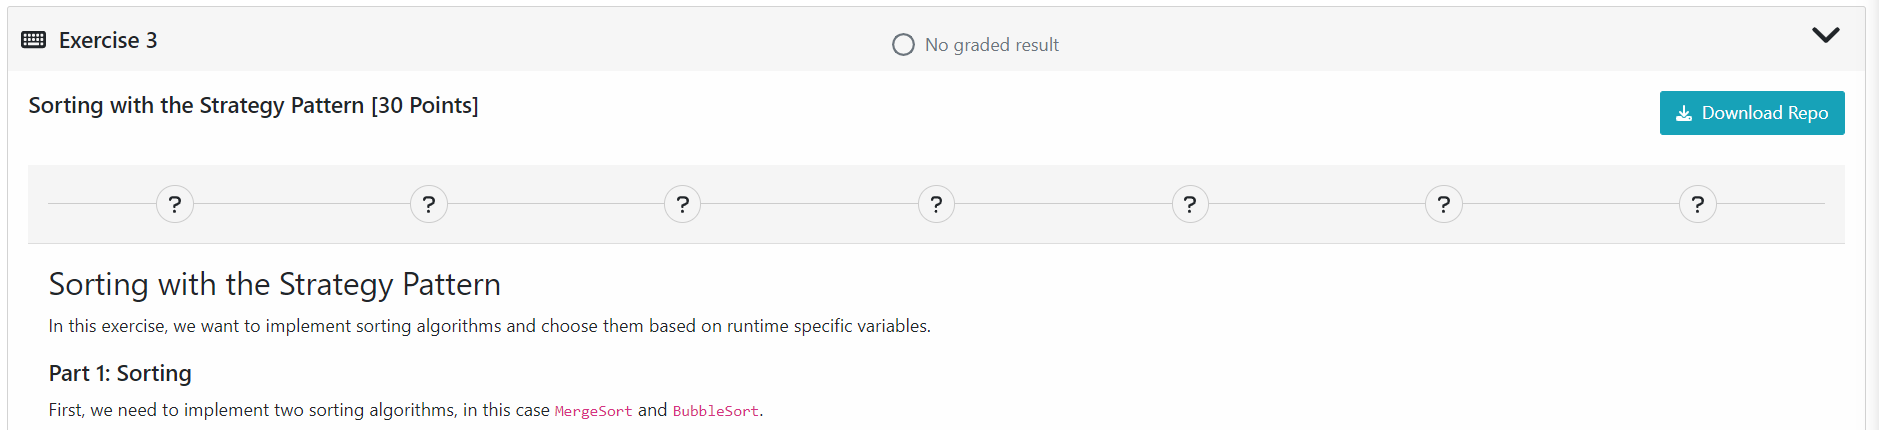
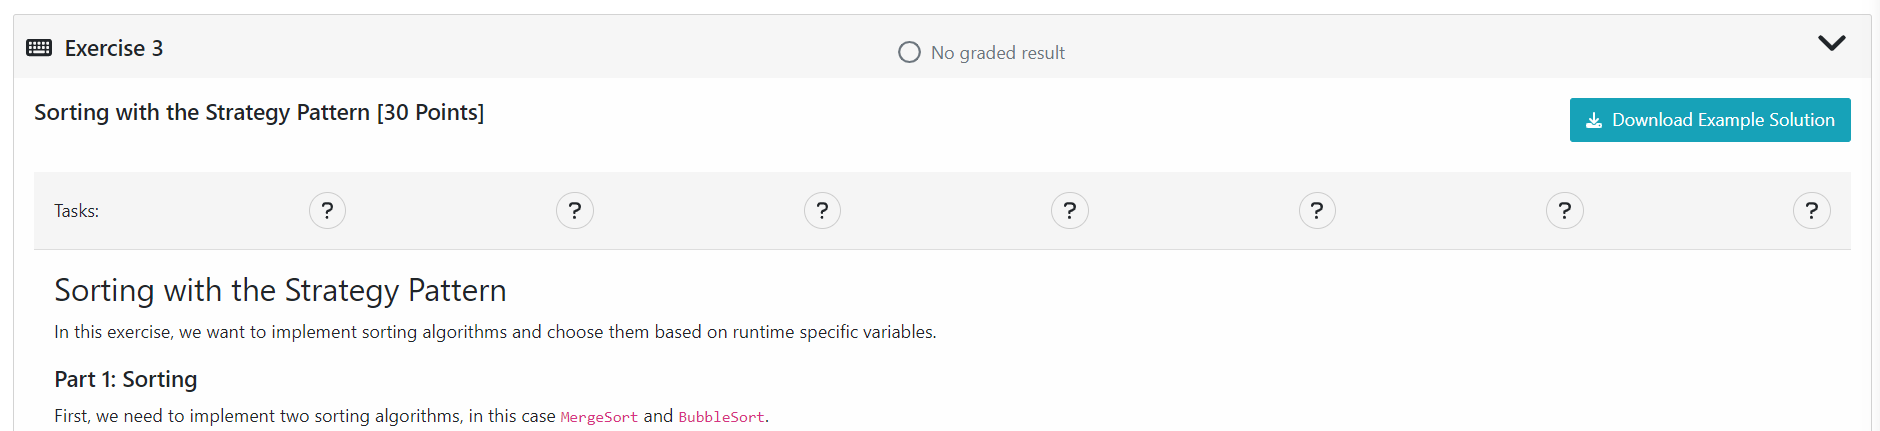
Exam mode: Change label of the example solution repo download button (#6152)

diff --git a/src/main/webapp/app/exam/participate/summary/exam-participation-summary.component.html b/src/main/webapp/app/exam/participate/summary/exam-participation-summary.component.html
@@ -85,6 +85,7 @@
                             *ngIf="exercise.type === PROGRAMMING"
                             class="ms-2 float-end"
                             [exerciseId]="exercise.id!"
+                            [title]="'artemisApp.programmingExercise.export.downloadExampleSolution'"
                         ></jhi-programming-exercise-example-solution-repo-download>
                     </ng-container>
                 </span>

diff --git a/docs/user/exams/students_guide.rst b/docs/user/exams/students_guide.rst
@@ -343,7 +343,7 @@ Example Solutions
 
    Example Solutions
 
-- For programming exercises, clicking ``Download Repo`` button will download the solution repository.
+- For programming exercises, clicking ``Download Example Solution`` button will download the solution repository.
 
 .. figure:: student/exam_example_solution_programming.png
    :alt: Example Solution for a Programming Exercise
